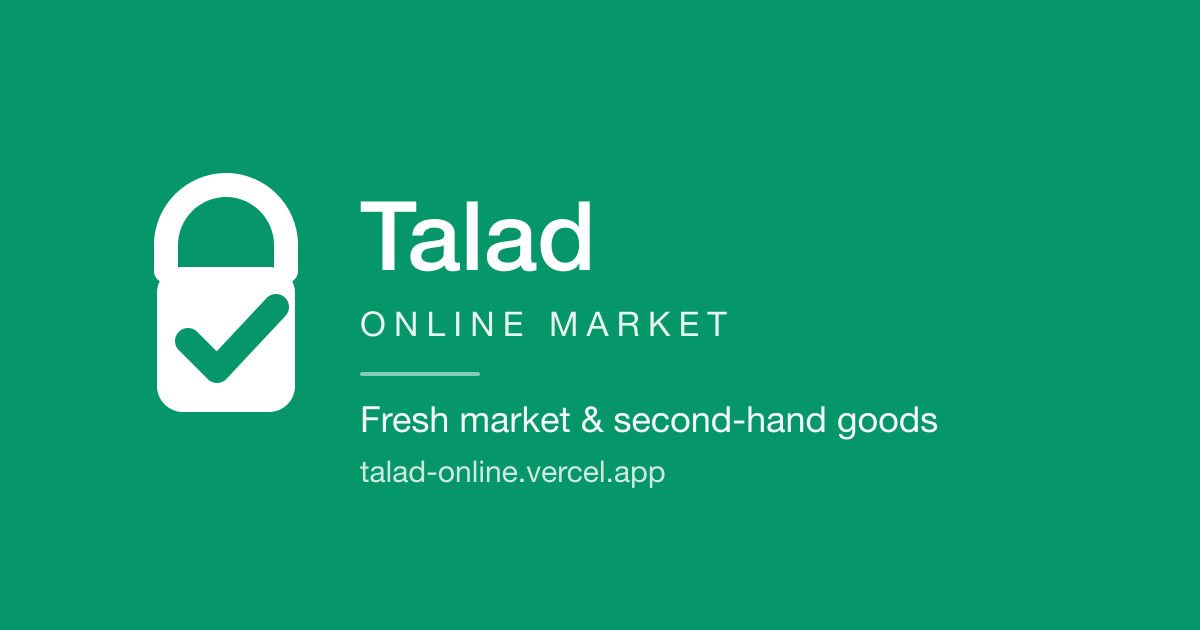
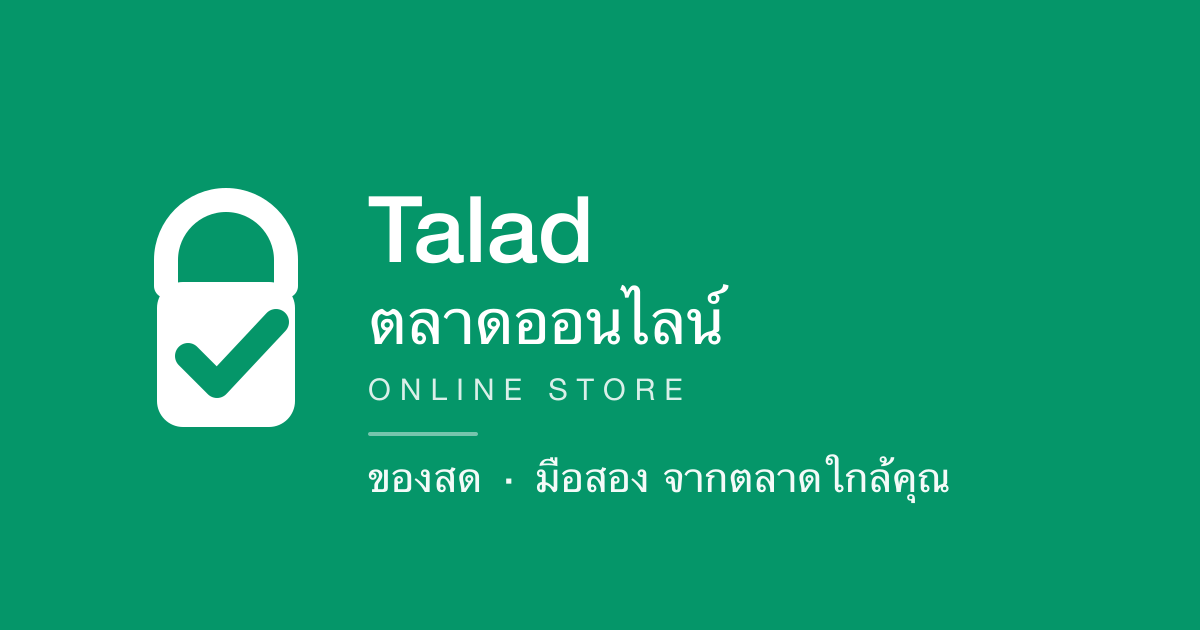
feat: โลโก้เพิ่มชื่อไทย 'ตลาดออนไลน์' + กลับไปใช้ ONLINE STORE ตามต้นแบบ
- โลโก้ 3 บรรทัด: Talad / ตลาดออนไลน์ / ONLINE STORE
- ขยับสัญลักษณ์ขึ้นให้พื้นที่ตัวอักษรพอ ไม่ชนกัน
- รูป OG เข้าชุดกัน + เพิ่มสโลแกนไทย
- README เตือนเรื่องฟอนต์ไทยตอนสร้าง PNG ใหม่บนเครื่องอื่น

diff --git a/brand/README.md b/brand/README.md
@@ -2,7 +2,7 @@
 
 | ไฟล์ | ขนาด | ใช้ทำอะไร |
 |---|---|---|
-| `talad-logo-1024.png` | 1024×1024 | **ไอคอน LINE channel / LINE OA** (LINE ต้องการ ≥500px) |
+| `talad-logo-1024.png` | 1024×1024 | **ไอคอน LINE channel / LINE OA** (LINE ต้องการ ≥500px) — มีชื่อไทย |
 | `talad-logo-512.png` | 512×512 | สำรอง — เว็บ/แอปสโตร์ที่ขอ 512 |
 | `talad-mark-1024.png` | 1024×1024 | เฉพาะสัญลักษณ์ ไม่มีตัวอักษร — ใช้ตอนพื้นที่แคบ |
 | `logo-square.svg` | vector | ต้นฉบับ (โลโก้เต็ม) แก้แล้วสร้าง PNG ใหม่ได้ |
@@ -12,6 +12,9 @@
 | `../public/apple-touch-icon.png` | 180×180 | ไอคอนตอนเพิ่มลงหน้าจอ iPhone |
 
 สีแบรนด์: `#059669` (เขียว) · ขาว `#ffffff`
+
+ฟอนต์ไทยในโลโก้ใช้ `Thonburi` (มีมากับ macOS)
+ถ้าสร้าง PNG บนเครื่องที่ไม่มีฟอนต์นี้ ตัวไทยจะกลายเป็นกล่องว่าง — ตรวจรูปทุกครั้งหลังสร้างใหม่
 
 ## สร้าง PNG ใหม่หลังแก้ SVG
 